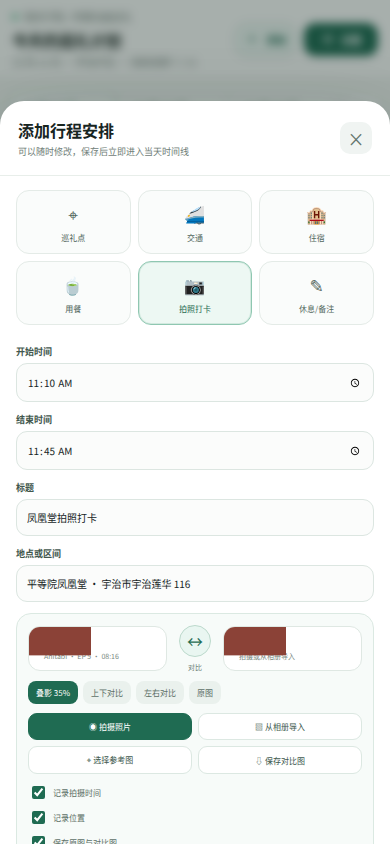
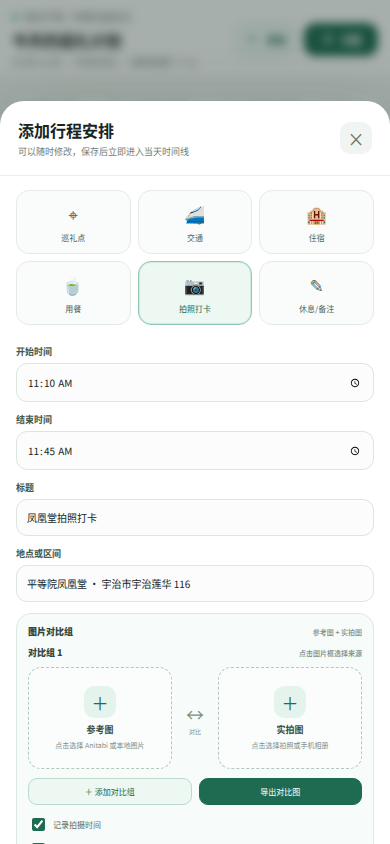
design: rework check-in photo comparison groups

Changed region(s): [[0.0615, 0.7393, 0.5538, 1.0], [0.4615, 0.8318, 0.9538, 0.955], [0.5538, 0.7393, 0.9231, 0.8009]]

diff --git a/design/enikki-ui.html b/design/enikki-ui.html
@@ -136,6 +136,9 @@ button,input{font:inherit}button{border:0;cursor:pointer}svg{display:block}
 .checkin-editor-fields{display:none;grid-column:1/-1;border:1px solid #dbe9e2;border-radius:15px;padding:11px;background:#f7fbf9}.plan-editor[data-selected-type="checkin"] .checkin-editor-fields{display:block}.plan-editor[data-selected-type="checkin"] .money-field{display:none}.photo-edit-grid{display:grid;grid-template-columns:1fr 58px 1fr;gap:8px;align-items:center}.photo-edit-card{display:block;overflow:hidden;border:1px solid #dfe8e3;border-radius:12px;background:#fff;text-align:left}.photo-edit-art{height:96px;position:relative;background:linear-gradient(145deg,#7aa796,#d4cc9c)}.photo-edit-card.actual .photo-edit-art{background:linear-gradient(145deg,#6f96ab,#d9b98d)}.photo-edit-art:before{content:"";position:absolute;width:112px;height:55px;left:50%;top:50%;transform:translate(-50%,-50%);background:#8b4237;clip-path:polygon(0 34%,16% 34%,22% 0,78% 0,84% 34%,100% 34%,100% 100%,0 100%)}.photo-edit-art:after{content:"";position:absolute;left:0;right:0;bottom:0;height:38px;background:#567a65;clip-path:polygon(0 34%,50% 0,100% 34%,100% 100%,0 100%)}.photo-edit-card b{display:block;padding:8px 9px 2px;color:#294238;font-size:9px}.photo-edit-card small{display:block;padding:0 9px 8px;color:#7a8982;font-size:7px}.compare-divider{display:grid;gap:5px;place-items:center;color:#6f8279;font-size:7px;text-align:center}.compare-divider button{width:40px;height:40px;border:1px solid #bcd9cc;border-radius:50%;color:var(--green);background:#e9f6f1;font-size:16px}.compare-options{display:flex;gap:5px;margin-top:9px}.compare-options button{padding:6px 8px;border-radius:8px;color:#5d7067;background:#eaf1ed;font-size:8px}.compare-options button.active{color:#fff;background:var(--green)}.photo-edit-actions{display:flex;flex-wrap:wrap;gap:6px;margin-top:9px}.photo-edit-actions button{padding:7px 9px;border:1px solid #dce8e2;border-radius:9px;color:#40594e;background:#fff;font-size:8px}.photo-edit-actions button.primary{color:#fff;border-color:var(--green);background:var(--green)}.photo-check-options{display:flex;gap:12px;margin-top:9px;color:#5e7168;font-size:8px}.photo-check-options label{display:flex;align-items:center;gap:5px}.photo-check-options input{accent-color:var(--green)}
 @media(max-width:760px){.photo-edit-grid{grid-template-columns:1fr 40px 1fr}.photo-edit-art{height:86px}.compare-divider button{width:32px;height:32px}.photo-edit-actions{display:grid;grid-template-columns:1fr 1fr}.photo-check-options{display:grid;gap:6px}}
 
+.photo-group-head{display:flex;align-items:center;gap:8px;margin-bottom:8px;color:#30483e;font-size:9px;font-weight:800}.photo-group-head span{margin-left:auto;color:#7b8b83;font-size:7px;font-weight:500}.photo-pair{display:grid;grid-template-columns:1fr 44px 1fr;gap:8px;align-items:center}.photo-slot{min-height:112px;display:flex;flex-direction:column;align-items:center;justify-content:center;gap:5px;border:1px dashed #afc9bd;border-radius:13px;color:#6a7c73;background:#fbfdfc;text-align:center}.photo-slot:hover{border-color:var(--green);background:#f1f9f5}.photo-slot b{color:#395248;font-size:9px}.photo-slot small{max-width:130px;color:#829089;font-size:7px;line-height:1.35}.photo-slot .empty-photo-icon{width:32px;height:32px;display:grid;place-items:center;border-radius:10px;color:var(--green);background:#e5f3ed;font-size:17px}.photo-slot.filled{border-style:solid;border-color:#a7cbb9;background:linear-gradient(145deg,#789c91,#d3c995);color:#fff}.photo-slot.filled.actual{background:linear-gradient(145deg,#6e96aa,#d7b789)}.photo-slot.filled .empty-photo-icon{color:#fff;background:rgba(26,82,61,.7)}.photo-slot.filled b{color:#fff}.photo-slot.filled small{color:rgba(255,255,255,.86)}.pair-link{display:grid;place-items:center;color:#799087}.pair-link span{font-size:18px}.pair-link small{font-size:6px}.photo-group+.photo-group{margin-top:9px;padding-top:9px;border-top:1px dashed #d5e2dc}.photo-group-tools{display:flex;gap:7px;margin-top:9px}.photo-group-tools button{padding:7px 9px;border:1px solid #d7e5de;border-radius:9px;color:#3d594d;background:#fff;font-size:8px}.photo-group-tools .add-group{color:var(--green);border-color:#bbdacb;background:#edf8f3}.photo-group-tools .save-compare{color:#fff;border-color:var(--green);background:var(--green)}.photo-source-backdrop{position:fixed;inset:0;z-index:90;display:none;place-items:center;padding:18px;background:rgba(15,32,26,.38);backdrop-filter:blur(5px)}.photo-source-backdrop.open{display:grid}.photo-source-modal{width:min(430px,calc(100vw - 36px));padding:18px;border-radius:22px;background:#fff;box-shadow:0 28px 70px rgba(14,35,27,.3)}.photo-source-modal h3{margin:0;font-size:14px}.photo-source-modal p{margin:4px 0 14px;color:#7a8982;font-size:8px}.photo-source-grid{display:grid;grid-template-columns:1fr 1fr;gap:8px}.photo-source-choice{display:flex;align-items:center;gap:9px;padding:11px;border:1px solid #e0e9e4;border-radius:12px;color:#385047;background:#fafcfb;font-size:9px;text-align:left}.photo-source-choice:hover{border-color:#9ecbb6;background:#eff9f4}.photo-source-choice i{width:32px;height:32px;display:grid;place-items:center;border-radius:10px;color:var(--green);background:#e7f3ed;font-size:15px;font-style:normal}.photo-source-choice small{display:block;margin-top:3px;color:#85928c;font-size:7px}.photo-source-close{margin-top:10px;width:100%;padding:9px;border-radius:10px;color:#62756c;background:#eff3f1;font-size:9px}
+@media(max-width:760px){.photo-pair{grid-template-columns:1fr 30px 1fr}.photo-slot{min-height:102px}.photo-source-grid{grid-template-columns:1fr}.photo-group-tools{display:grid;grid-template-columns:1fr 1fr}}
+
 </style>
 </head>
 <body>
@@ -588,14 +591,19 @@ button,input{font:inherit}button{border:0;cursor:pointer}svg{display:block}
       <div class="field full"><label>标题</label><input id="planEditorName" value="凤凰堂参拜与拍照" placeholder="例如：宇治桥打卡"></div>
       <div class="field full"><label>地点或区间</label><input value="平等院凤凰堂 · 宇治市宇治莲华 116" placeholder="搜索地点或输入自定义位置"></div>
       <div class="checkin-editor-fields">
-        <div class="photo-edit-grid">
-          <button class="photo-edit-card reference" onclick="toast('从 Anitabi 选择参考图')"><span class="photo-edit-art"></span><b>参考图</b><small>Anitabi · EP 5 · 08:16</small></button>
-          <div class="compare-divider"><button onclick="toast('已切换对比预览')">↔</button><span>对比</span></div>
-          <button class="photo-edit-card actual" onclick="toast('打开相机拍摄实景照片')"><span class="photo-edit-art"></span><b>实拍图</b><small>拍摄或从相册导入</small></button>
+        <div class="photo-group-head"><b>图片对比组</b><span>参考图 + 实拍图</span></div>
+        <div id="photoGroups">
+          <div class="photo-group" data-photo-group="1">
+            <div class="photo-group-head"><b>对比组 1</b><span>点击图片框选择来源</span></div>
+            <div class="photo-pair">
+              <button class="photo-slot reference" data-photo-side="reference"><span class="empty-photo-icon">＋</span><b>参考图</b><small>点击选择 Anitabi 或本地图片</small></button>
+              <div class="pair-link"><span>↔</span><small>对比</small></div>
+              <button class="photo-slot actual" data-photo-side="actual"><span class="empty-photo-icon">＋</span><b>实拍图</b><small>点击选择拍照或手机相册</small></button>
+            </div>
+          </div>
         </div>
-        <div class="compare-options"><button class="active">叠影 35%</button><button>上下对比</button><button>左右对比</button><button>原图</button></div>
-        <div class="photo-edit-actions"><button class="primary" onclick="toast('相机已打开')">◉ 拍摄照片</button><button onclick="toast('打开系统相册')">▧ 从相册导入</button><button onclick="toast('已选择 Anitabi 参考图')">⌖ 选择参考图</button><button onclick="toast('对比图已保存到本地')">⇩ 保存对比图</button></div>
-        <div class="photo-check-options"><label><input type="checkbox" checked>记录拍摄时间</label><label><input type="checkbox" checked>记录位置</label><label><input type="checkbox" checked>保存原图与对比图</label></div>
+        <div class="photo-group-tools"><button class="add-group" onclick="addPhotoGroup()">＋ 添加对比组</button><button class="save-compare" onclick="toast('图片填写后将保存对比图')">导出对比图</button></div>
+        <div class="photo-check-options" style="margin-top:10px"><label><input type="checkbox" checked>记录拍摄时间</label><label><input type="checkbox" checked>记录位置</label></div>
       </div>
       <div class="field money-field"><label>费用 · CNY</label><input value="60.00"></div>
       <div class="field money-field"><label>费用 · JPY</label><input value="1,230"></div>
@@ -610,6 +618,19 @@ button,input{font:inherit}button{border:0;cursor:pointer}svg{display:block}
       <button class="btn primary" onclick="savePlanEditor(true)">保存安排</button>
     </div>
     <div class="plan-editor-note">支持拖动排序、锁定时间和设置预约提醒；费用会自动计入双币种预算。</div>
+  </div>
+</div>
+<div class="photo-source-backdrop" id="photoSourceBackdrop" onclick="closePhotoSource(event)">
+  <div class="photo-source-modal" role="dialog" aria-modal="true" onclick="event.stopPropagation()">
+    <h3>选择图片导入方式</h3>
+    <p id="photoSourceHint">为“参考图”选择来源</p>
+    <div class="photo-source-grid">
+      <button class="photo-source-choice" data-photo-source="anitabi"><i>A</i><span>Anitabi 参考图<small>按当前作品和点位选择</small></span></button>
+      <button class="photo-source-choice" data-photo-source="camera"><i>◉</i><span>拍照<small>打开相机现场拍摄</small></span></button>
+      <button class="photo-source-choice" data-photo-source="album"><i>▧</i><span>手机相册<small>选择已有照片</small></span></button>
+      <button class="photo-source-choice" data-photo-source="file"><i>⇧</i><span>本地文件<small>从电脑或文件应用导入</small></span></button>
+    </div>
+    <button class="photo-source-close" onclick="closePhotoSource()">取消</button>
   </div>
 </div>
 <div class="mobile-sheet-backdrop" id="mobileSheetBackdrop" onclick="closeMobileSheet(event)">
@@ -720,6 +741,60 @@ document.getElementById('mobileSheetGrid').addEventListener('click', (event) => 
   }
 });
 
+let photoTarget = null;
+const photoSourceLabels = {
+  anitabi: ['Anitabi 参考图', 'A'],
+  camera: ['现场拍照', '◉'],
+  album: ['手机相册', '▧'],
+  file: ['本地文件', '⇧']
+};
+
+function openPhotoSource(slot) {
+  photoTarget = slot;
+  const side = slot.dataset.photoSide === 'actual' ? '实拍图' : '参考图';
+  document.getElementById('photoSourceHint').textContent = `为“${side}”选择来源`;
+  document.getElementById('photoSourceBackdrop').classList.add('open');
+}
+
+function closePhotoSource(event) {
+  if (event && event.target !== event.currentTarget) return;
+  document.getElementById('photoSourceBackdrop').classList.remove('open');
+}
+
+function choosePhotoSource(source) {
+  if (!photoTarget) return;
+  const [label, icon] = photoSourceLabels[source] || photoSourceLabels.file;
+  const side = photoTarget.dataset.photoSide || 'reference';
+  photoTarget.classList.add('filled');
+  if (side === 'actual') photoTarget.classList.add('actual');
+  photoTarget.innerHTML = `<span class="empty-photo-icon">${icon}</span><b>${side === 'actual' ? '实拍图' : '参考图'}</b><small>${label} · 点击可替换</small>`;
+  closePhotoSource();
+}
+
+function addPhotoGroup() {
+  const groups = document.getElementById('photoGroups');
+  const number = groups.querySelectorAll('.photo-group').length + 1;
+  groups.insertAdjacentHTML('beforeend', `
+    <div class="photo-group" data-photo-group="${number}">
+      <div class="photo-group-head"><b>对比组 ${number}</b><span>点击图片框选择来源</span></div>
+      <div class="photo-pair">
+        <button class="photo-slot reference" data-photo-side="reference"><span class="empty-photo-icon">＋</span><b>参考图</b><small>点击选择 Anitabi 或本地图片</small></button>
+        <div class="pair-link"><span>↔</span><small>对比</small></div>
+        <button class="photo-slot actual" data-photo-side="actual"><span class="empty-photo-icon">＋</span><b>实拍图</b><small>点击选择拍照或手机相册</small></button>
+      </div>
+    </div>`);
+  toast(`已添加对比组 ${number}`);
+}
+
+document.getElementById('photoGroups').addEventListener('click', (event) => {
+  const slot = event.target.closest('.photo-slot');
+  if (slot) openPhotoSource(slot);
+});
+
+document.querySelectorAll('[data-photo-source]').forEach((button) => {
+  button.addEventListener('click', () => choosePhotoSource(button.dataset.photoSource));
+});
+
 const planTypeDefaults = {
   spot: ['凤凰堂参拜与拍照', '平等院凤凰堂 · 宇治市宇治莲华 116'],
   transport: ['平等院 → 大吉山', '步行路线 · 约 28 分钟'],
@@ -764,6 +839,7 @@ document.addEventListener('keydown', (event) => {
   if (event.key === 'Escape') {
     closeMobileSheet();
     closePlanEditor();
+    closePhotoSource();
   }
 });
 
@@ -792,6 +868,12 @@ const initialSheet = initialParams.get('sheet');
 if (initialSheet) openMobileSheet(initialSheet);
 if (initialParams.get('editor') === 'add') {
   openPlanEditor(initialParams.get('type') || 'spot');
+}
+if (initialParams.get('photoSource')) {
+  setTimeout(() => {
+    const slot = document.querySelector('.photo-slot');
+    if (slot) openPhotoSource(slot);
+  }, 0);
 }
 </script>
 </body>

diff --git a/design/README.md b/design/README.md
@@ -36,8 +36,22 @@ enikki-ui.html?view=offline
 
 ![手机端总览添加安排](preview-mobile-plan-add.png)
 
-选择“拍照打卡”类型后，表单会显示参考图与实拍图预览、叠影/上下/左右对比、
-拍摄、相册导入、选择 Anitabi 参考图、保存对比图，以及拍摄时间和位置选项。
+选择“拍照打卡”类型后，表单默认显示“参考图 + 实拍图”两个空图片框。点击
+任一框会弹出图片来源选择：
+
+- Anitabi 参考图
+- 现场拍照
+- 手机相册
+- 本地文件
+
+选择后的图片会填入对应框，并支持继续添加新的“参考图 + 实拍图”对比组。
+填写后可使用叠影、上下、左右和原图模式，并保存对比图。
+
+![图片来源选择](preview-photo-source.png)
+
+手机端图片来源选择：
+
+![手机端图片来源选择](preview-mobile-photo-source.png)
 
 ### 交通规划
 

diff --git a/README.md b/README.md
@@ -109,7 +109,10 @@ ENikki 会覆盖交通和住宿的**规划环节**，但不直接承担交易环
 ### 6. 拍照打卡与现场记录
 
 - 拍照打卡是时间线中的安排类型，可通过右上角“添加”或已有事件的“编辑”进入。
-- 支持参考图叠影、上下对比、原图/实景切换、相机拍摄和相册导入。
+- 默认显示“参考图 + 实拍图”两个空图片框，点击后选择 Anitabi、拍照、
+  手机相册或本地文件。
+- 支持参考图叠影、上下对比、左右对比、原图/实景切换。
+- 支持继续添加多组对比图片。
 - 保存拍摄时间、可选位置、现场备注、参考图和实景照片。
 - 打卡完成后自动绑定作品、点位、行程和当前日期，并更新完成进度。
 - 支持多张照片、重拍、删除、补充备注和标记“稍后补拍”。

diff --git a/docs/TRIP_PLANNING_ARCHITECTURE.md b/docs/TRIP_PLANNING_ARCHITECTURE.md
@@ -326,7 +326,8 @@ ExportTrip
 - 在任意事件之间插入新的 `PlanItem`；
 - 编辑开始时间、结束时间、标题、地点、片区、提醒和备注；
 - 添加巡礼点、交通、住宿、用餐、拍照打卡、休息和普通备注；
-- 拍照打卡类型提供参考图、实拍图、叠影/上下/左右对比、相册导入和对比图导出；
+- 拍照打卡类型默认提供两个空图片框，点击后选择 Anitabi、拍照、相册或文件；
+- 每组保存参考图、实拍图和对比模式，并允许继续添加多个对比组；
 - 输入 CNY 与 JPY，或输入原币种后自动换算；
 - 拖动调整顺序，锁定固定预约和交通；
 - 复制、删除、撤销和恢复安排；

diff --git a/docs/IMPLEMENTATION_PLAN.md b/docs/IMPLEMENTATION_PLAN.md
@@ -177,6 +177,7 @@ lib/
 | `BudgetItem` | id、类别、金额、币种、预估/实际 | 交通、住宿、餐饮、门票等预算与支出 |
 | `VisitRecord` | id、点位、到达时间、状态、备注 | 打卡与现场反馈 |
 | `CheckInRecord` | id、点位、照片、时间、位置、备注 | 一次拍照打卡记录 |
+| `PhotoComparisonGroup` | 参考图、实拍图、对比模式、顺序 | 一组图片对比记录 |
 | `MediaAsset` | id、文件哈希、类型、位置、关联对象 | 照片、视频和导出文件 |
 | `Revision` | entity_id、revision、device_id、更新时间 | 本地与服务端同步的基础 |
 
